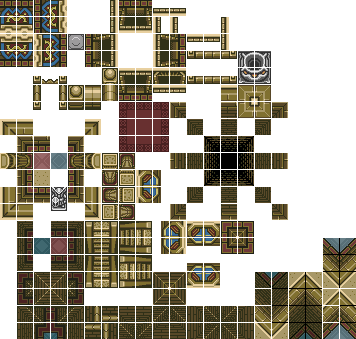
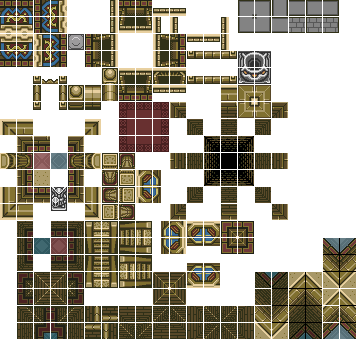
First draft of multi-walls Deliverable map built, knight enemy placements

Changed region(s): [[0.6489, 0.0, 0.9579, 0.118]]

diff --git a/scenemanager.js b/scenemanager.js
@@ -40,7 +40,7 @@ class SceneManager{
         return this.env_entities[yTileCoord*tilesWide + xTileCoord];
     }
 
-    getNeighborTiles(xTileCoord, yTileCoord) {
+    getEnvNeighborTiles(xTileCoord, yTileCoord) {
         let tilesWide = gameEngine.currMap.cellWidthInTiles,
             tilesHigh = gameEngine.currMap.cellHeightInTiles;
             
@@ -54,6 +54,58 @@ class SceneManager{
         if (xTileCoord > 0)         westTile = this.getEnvEntityAtCoord(xTileCoord - 1, yTileCoord);
         if (xTileCoord < tilesHigh) eastTile = this.getEnvEntityAtCoord(xTileCoord + 1, yTileCoord);
 
+        //console.log(northTile)
+
         return {'north':northTile, 'south':southTile, 'west':westTile, 'east':eastTile};
+    }
+
+    getEnvNeighborTilesSameType(xTileCoord, yTileCoord) {
+        let currTile = this.getEnvEntityAtCoord(xTileCoord, yTileCoord);
+        let neighbors = this.getEnvNeighborTiles(xTileCoord, yTileCoord);
+        
+        let northSame = false,
+            southSame = false,
+            westSame = false,
+            eastSame = false;
+
+        if (neighbors.north) northSame = neighbors.north.typeName == currTile.typeName;
+        if (neighbors.south) southSame = neighbors.south.typeName == currTile.typeName;
+        if (neighbors.east)  eastSame = neighbors.east.typeName == currTile.typeName;
+        if (neighbors.west)  westSame = neighbors.west.typeName == currTile.typeName;
+
+        return {
+                'northSame': northSame,
+                'southSame': southSame,
+                'westSame':  westSame,
+                'eastSame':  eastSame
+            };
+    }
+
+    fixMultiblockEnvEntities() {
+        for (let i = 0; i < this.env_entities.length; i++) {
+            
+            let tile = this.env_entities[i];
+            if (tile.typeName=="WallComplex") {
+                let tileX = tile.xLoc / gameEngine.currMap.pxTileWidth,
+                    tileY = tile.yLoc / gameEngine.currMap.pxTileHeight;
+                let neighbors = gameEngine.scene.getEnvNeighborTilesSameType(tileX, tileY);
+
+                //console.log(tileX, tileY, neighbors)
+                
+                if (neighbors.southSame && neighbors.eastSame) {            // NW CORNER
+                    tile.tileString = 'wall_NW';
+                } else if (neighbors.southSame && neighbors.westSame) {     // NE CORNER
+                    tile.tileString = 'wall_NE';
+                } else if (neighbors.westSame && neighbors.eastSame) {      // HORIZ
+                    tile.tileString = 'wall_HORIZ';
+                } else if (neighbors.northSame && neighbors.eastSame) {     // SW CORNER
+                    tile.tileString = 'wall_SW';
+                } else if (neighbors.northSame && neighbors.westSame) {     // SE CORNER
+                    tile.tileString = 'wall_SE';
+                } else if (neighbors.northSame && neighbors.southSame) {    // VERT
+                    tile.tileString = 'wall_VERT';
+                }
+            }
+        }
     }
 }

diff --git a/rendering/graphics_loader.js b/rendering/graphics_loader.js
@@ -4,6 +4,7 @@ class GraphicsLoader {
         /// /// T I L E S /// ///
         GRAPHICS.addSpriteSheet('OW_TILES', ASSET_MANAGER.getAsset('overworld_tiles.png'));
         GRAPHICS.addSpriteSheet('DUNGEON_TILES', ASSET_MANAGER.getAsset('dungeon_tiles.png'));
+        GRAPHICS.addSpriteSheet('CASTLE_TILES', ASSET_MANAGER.getAsset('castle_tiles.png'));
 
         GRAPHICS.addSpriteSet(
             'environment', 'OW_TILES',
@@ -21,6 +22,14 @@ class GraphicsLoader {
             ['floor_blue_cobblestone', 'floor_purple_stone_tile', 'blocker_yellow_stone', 'wall_grey_block']
         );
 
+        GRAPHICS.addSpriteSet(
+            'environment', 'CASTLE_TILES',
+            [238, 255, 272, 238, 255, 272],
+            [0, 0, 0, 17, 17, 17],
+            16, 16, 0, 0, 
+            ['wall_NW', 'wall_NE', 'wall_VERT', 'wall_SW', 'wall_SE', 'wall_HORIZ']
+        );
+
         const spt = GRAPHICS.get('environment');
         GRAPHICS.addTile('grass', spt.gsl('grass_thick'));
         GRAPHICS.addTile('sand', spt.gsl('sand'));
@@ -30,7 +39,13 @@ class GraphicsLoader {
         GRAPHICS.addTile('floor purple stone tile', spt.gsl('floor_purple_stone_tile'));
         GRAPHICS.addTile('blocker yellow stone', spt.gsl('blocker_yellow_stone'));
         GRAPHICS.addTile('wall grey block', spt.gsl('wall_grey_block'));
-        
+
+        GRAPHICS.addTile('wall_NW', spt.gsl('wall_NW'));
+        GRAPHICS.addTile('wall_NE', spt.gsl('wall_NE'));
+        GRAPHICS.addTile('wall_VERT', spt.gsl('wall_VERT'));
+        GRAPHICS.addTile('wall_SW', spt.gsl('wall_SW'));
+        GRAPHICS.addTile('wall_SE', spt.gsl('wall_SE'));
+        GRAPHICS.addTile('wall_HORIZ', spt.gsl('wall_HORIZ'));
 
         // const theSprites = GRAPHICS.get('environment');
         // theSprites.forEach(sprite => {

diff --git a/main.js b/main.js
@@ -37,24 +37,39 @@ ASSET_MANAGER.downloadAll(() => {
 		'#ffff00':'sand',
 		'#0000ff':'floor_blue_cobblestone',
 		'#008800':'blocker_yellow_stone',
-		'#444444':'wall_grey_block'
+		'#444444':'wall_complex'
 	});
 
-	testMap.addMapCellEntity(2, 2, new Knight(500, 600));
-	testMap.addMapCellEntity(2, 2, new Knight(600, 600));
-	//testMap.addMapCellEntity(3, 2, new Knight(600, 600));
-	testMap.addMapCellEntity(3, 2, new Bunny(400,400));
+	// testMap.addMapCellEntity(2, 2, new Knight(500, 600));
+	// testMap.addMapCellEntity(2, 2, new Knight(600, 600));
+	// testMap.addMapCellEntity(3, 2, new Knight(600, 600));
+	// testMap.addMapCellEntity(3, 2, new Bunny(400,400));
 
-	let roomIndexX = 1;
-	let roomIndexY = 2;
-	testMap.loadMapCell(roomIndexX, roomIndexY);
+	let r1_KnightXY = tileToScreenCoord(14, 2);
+	testMap.addMapCellEntity(1, 3, new Knight(r1_KnightXY.x, r1_KnightXY.y));
+
+	let r2_Knight1XY = tileToScreenCoord(6, 2);
+	let r2_Knight2XY = tileToScreenCoord(10, 13);
+	testMap.addMapCellEntity(2, 3, new Knight(r2_Knight1XY.x, r2_Knight1XY.y));
+	testMap.addMapCellEntity(2, 3, new Knight(r2_Knight2XY.x, r2_Knight2XY.y));
+	
+	let r3_Knight1XY = tileToScreenCoord(6, 13),
+		r3_Knight2XY = tileToScreenCoord(13, 13);
+	
+	testMap.addMapCellEntity(2, 4, new Knight(r3_Knight1XY.x, r3_Knight1XY.y));
+	testMap.addMapCellEntity(2, 4, new Knight(r3_Knight2XY.x, r3_Knight2XY.y));
+	
+	// actual starting room is (1, 2)
+	let startMapCellX = 1,
+		startMapCellY = 4;
+
+	testMap.loadMapCell(startMapCellX, startMapCellY);
 	//setInterval(bun, bt)
 	
 	testMap.addMapEntitiesToEngine(gameEngine);
 	testMap.addInteractableToEngine(gameEngine);
 	
 	gameEngine.currMap = testMap;
-
 
 	gameEngine.init(ctx);
 

diff --git a/maptiles.js b/maptiles.js
@@ -106,6 +106,7 @@ class BlockerYellowDoor {
 class WallGreyBlock {
     constructor(xLoc, yLoc) {
         Object.assign(this, { xLoc, yLoc });
+        this.typeName = "WallGreyBlock";
     }
 
     update() {
@@ -120,6 +121,11 @@ class WallGreyBlock {
 class WallComplex {
     constructor(xLoc, yLoc) {
         Object.assign(this, { xLoc, yLoc });
+        this.phys2d = {static: true};
+        this.collider = {type: "box", corner: {x: xLoc, y: yLoc}, height: 16 * SCALE, width: 16 * SCALE};
+        this.tag = 'environment';
+        this.typeName = "WallComplex";
+        this.tileString = 'wall grey block';
     }
 
     update() {
@@ -127,6 +133,6 @@ class WallComplex {
     };
 
     draw(ctx, scale) {
-        let tileAbove = gameEngine.scene.env_
+        GRAPHICS.get(this.tileString).drawTile(ctx, this.xLoc, this.yLoc);
     }
 }

diff --git a/util.js b/util.js
@@ -116,3 +116,16 @@ const drawGameOver = (ctx) => {
     ctx.fillText("GAME OVER", ctx.canvas.clientWidth/2, ctx.canvas.clientHeight/2);
     ctx.textAlign = "start";
 }
+
+
+const screenToTileCoord = (x, y) => {
+    let tileWidth = 16*SCALE,
+        tileHeight = 16*SCALE;
+    return {'x':(Math.floor(x/tileWidth)), 'y':(Math.floor(y/tileHeight))};
+}
+
+const tileToScreenCoord = (x, y) => {
+    let tileWidth = 16*SCALE,
+        tileHeight = 16*SCALE;
+    return {'x':(x*tileWidth), 'y':(y*tileHeight)};
+}

diff --git a/map.js b/map.js
@@ -124,6 +124,8 @@ class GameMap {
                     tile = new BlockerYellowDoor(tileX, tileY);
                 else if (tileColor == 'wall_grey_block')
                     tile = new WallGreyBlock(tileX, tileY);
+                else if (tileColor == 'wall_complex')
+                    tile = new WallComplex(tileX, tileY);
                 else
                     tile = new Grass(tileX, tileY);
 
